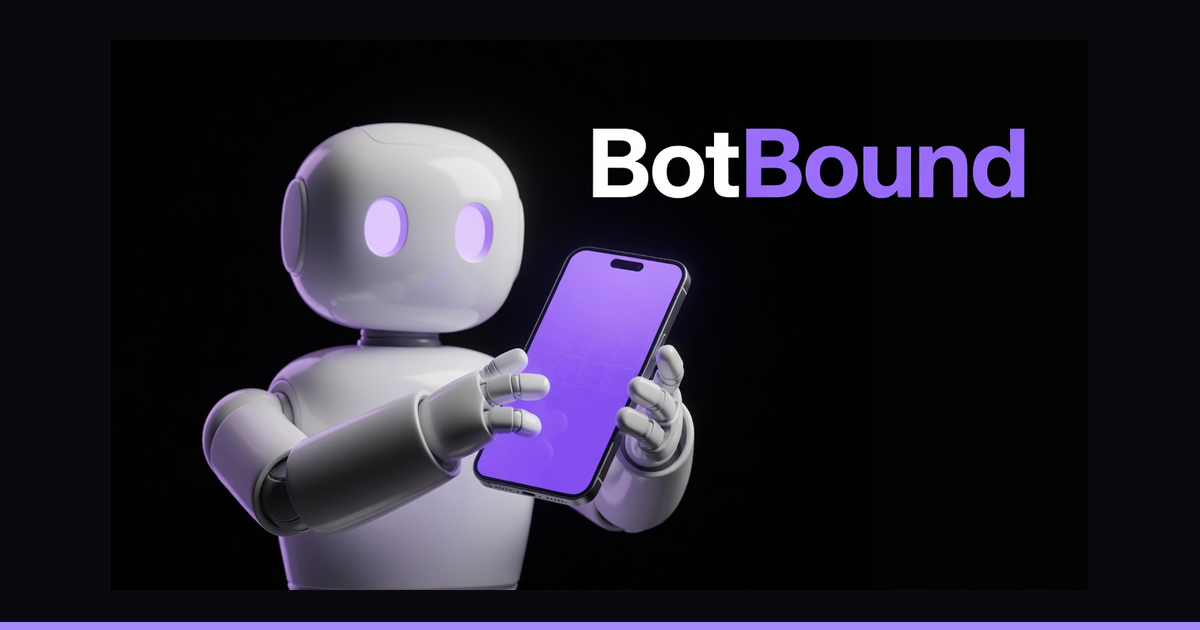
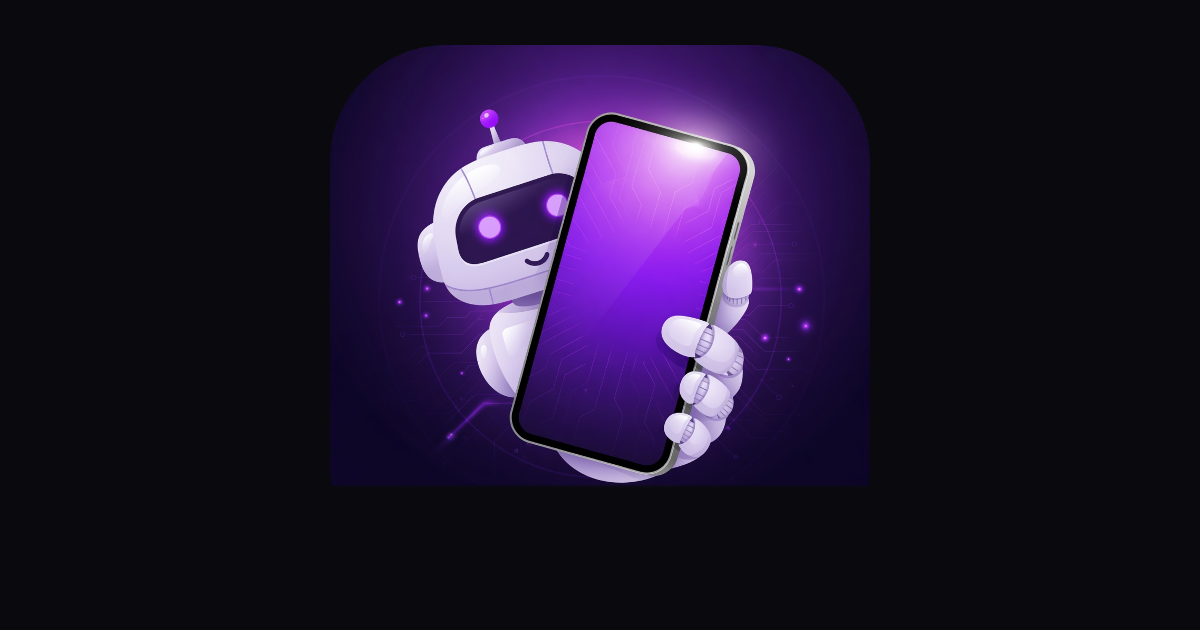
Point BotBoundMark at the robot-only Presenting character
Michael + CoS lock 2026-09-24: primary logo is robot-only app-icon with
no baked wordmark. Favicon, PWA, and Stripe tiny chrome stay the B
letterpress glyph. CSS BotBoundBrand wordmark is unchanged.

diff --git a/tests/atomic-design-system-contract.test.ts b/tests/atomic-design-system-contract.test.ts
@@ -64,26 +64,34 @@ describe("Atomic Design completion contract", () => {
     expect(code).not.toMatch(arbitraryWithSpace);
   });
 
-  it("ships the letterpress glyph for in-product chrome and Presenting for store tiles", () => {
+  it("ships the robot-only Presenting tile for BotBoundMark and the letterpress glyph for tiny chrome", () => {
     const mark = source("src/components/brand/BotBoundMark.tsx");
     const legacyMark = source("src/components/brand/WirelineMark.tsx");
     const renderer = source("scripts/render-image-assets.mjs");
+    const brand = source("src/components/brand/BotBoundBrand.tsx");
 
-    expect(mark).toContain('src="/brand/botbound-mark.png"');
-    expect(mark).toContain('data-botbound-mark="letterpress"');
+    expect(mark).toContain('src="/brand/botbound-app-icon.png"');
+    expect(mark).toContain('data-botbound-mark="character"');
     expect(mark).not.toContain("<svg");
+    expect(mark).not.toContain("presenting-lockup");
+    expect(mark).not.toContain("botbound-mark.png");
+    expect(brand).toContain("BotBoundWordmark");
     expect(legacyMark).toContain('from "./BotBoundMark"');
     expect(renderer).toContain("public/brand/botbound-app-icon.png");
     expect(renderer).toContain("public/brand/botbound-mark.png");
     expect(renderer).not.toContain('out: "public/wireline-icon-512.png"');
 
-    for (const asset of ["public/favicon.svg", "public/botbound-icon.svg", "scripts/apple-touch-icon.svg"]) {
+    for (const asset of ["public/favicon.svg", "public/botbound-icon.svg"]) {
       const svg = source(asset);
       expect(svg, `${asset} must be the letterpress phone glyph`).toContain("#A78BFA");
       expect(svg).toContain("phone glyph");
       expect(svg).not.toContain("botbound-app-icon.png");
       expect(svg).not.toContain("folded violet and platinum W");
     }
+
+    const appleTouch = source("scripts/apple-touch-icon.svg");
+    expect(appleTouch).toContain("botbound-app-icon.png");
+    expect(appleTouch).not.toContain("folded violet and platinum W");
 
     const iosIcon = source("scripts/ios-app-icon.svg");
     expect(iosIcon).toContain("botbound-app-icon.png");

diff --git a/tests/brand-bot-identity-contract.test.ts b/tests/brand-bot-identity-contract.test.ts
@@ -5,16 +5,20 @@ import { describe, expect, it } from "vitest";
 const read = (path: string) => readFileSync(resolve(process.cwd(), path), "utf8");
 
 describe("BotBound brand migration", () => {
-  it("uses the approved letterpress phone glyph as the canonical visual identity", () => {
+  it("uses the Presenting robot character as the canonical visual identity", () => {
     const component = read("src/components/brand/BotBoundMark.tsx");
     const icon = read("public/botbound-icon.svg");
     const favicon = read("public/favicon.svg");
-    expect(component).toContain('data-botbound-mark="letterpress"');
-    expect(component).toContain('src="/brand/botbound-mark.png"');
-    expect(component).toContain("letterpress violet phone glyph");
+    expect(component).toContain('data-botbound-mark="character"');
+    expect(component).toContain('src="/brand/botbound-app-icon.png"');
+    expect(component).toContain("Presenting robot character");
+    expect(component).toContain("No baked");
     expect(component).not.toContain("receiver");
     expect(component).not.toContain("phone-bot");
+    expect(component).not.toContain("landline");
     expect(component).not.toContain("<svg");
+    expect(component).not.toContain("presenting-lockup");
+    expect(component).not.toContain("botbound-mark.png");
     for (const source of [icon, favicon]) {
       expect(source).toContain("BotBound");
       expect(source).toMatch(/phone|Phone/);

diff --git a/src/components/brand/BotBoundMark.tsx b/src/components/brand/BotBoundMark.tsx
@@ -6,22 +6,23 @@ type BotBoundMarkProps = {
 };
 
 /**
- * Canonical BotBound mark: the letterpress violet phone glyph.
+ * Canonical BotBound mark: the Presenting robot character only.
  *
- * Studio chrome, favicon, PWA, and Stripe use this flat B glyph. Presenting
- * photoreal artwork stays on marketing tiles, OG, and store icons.
+ * No baked "BotBound" wordmark. Product name is the typographic CSS wordmark
+ * in BotBoundBrand. Favicon, PWA, and Stripe tiny chrome use the letterpress
+ * phone glyph separately because the robot does not read at 16px.
  */
 export default function BotBoundMark({ className = "", label, signal = true }: BotBoundMarkProps) {
   return (
     <img
-      src="/brand/botbound-mark.png"
+      src="/brand/botbound-app-icon.png"
       alt={label ?? ""}
       role={label ? "img" : undefined}
       aria-hidden={label ? undefined : true}
       draggable={false}
       className={`bb-mark-image inline-block shrink-0 ${className}`}
       data-signal={signal ? "true" : "false"}
-      data-botbound-mark="letterpress"
+      data-botbound-mark="character"
     />
   );
 }

diff --git a/tests/static-metadata-contract.test.ts b/tests/static-metadata-contract.test.ts
@@ -73,7 +73,7 @@ describe("BotBound static marketing metadata", () => {
     expect(pageMeta).not.toContain('DEFAULT_TITLE = "WIRELINE');
   });
 
-  it("keeps the OG image aligned with the locked Presenting marketing lockup", () => {
+  it("keeps the OG image aligned with the robot-only Presenting character", () => {
     const ogImage = read("public/og-image.svg");
 
     expect(ogImage).toContain("BotBound");
@@ -81,7 +81,7 @@ describe("BotBound static marketing metadata", () => {
     expect(ogImage).toContain("Outbound sales. Inbound calls.");
     expect(ogImage).toContain("/brand/og-image.png");
     expect(ogImage).toContain("#0A0A0E");
-    expect(ogImage).toMatch(/phone|Phone/);
+    expect(ogImage).toContain("No baked wordmark");
     expect(ogImage).not.toContain("ONE BOT");
     expect(ogImage).not.toContain("PUT YOUR BOT ON THE LINE");
     expect(ogImage).not.toContain("folded violet and platinum W");

diff --git a/tests/marketing-centering-contract.test.ts b/tests/marketing-centering-contract.test.ts
@@ -77,13 +77,13 @@ describe("marketing centering contract", () => {
     expect(hero).toContain("w-full min-w-0 max-w-[70rem]");
   });
 
-  it("keeps the canonical letterpress mark and legacy import alias aligned", () => {
+  it("keeps the canonical robot-character mark and legacy import alias aligned", () => {
     const mark = read("src/components/brand/BotBoundMark.tsx");
     const legacyMark = read("src/components/brand/WirelineMark.tsx");
 
     expect(mark).toContain("<img");
-    expect(mark).toContain('src="/brand/botbound-mark.png"');
-    expect(mark).toContain('data-botbound-mark="letterpress"');
+    expect(mark).toContain('src="/brand/botbound-app-icon.png"');
+    expect(mark).toContain('data-botbound-mark="character"');
     expect(mark).not.toContain("<svg");
     expect(mark).not.toContain("viewBox=");
     expect(legacyMark).toContain('export { default } from "./BotBoundMark"');

diff --git a/src/styles/brand-identity.css b/src/styles/brand-identity.css
@@ -1,9 +1,11 @@
 /* BotBound identity layer.
  *
- * Customer-visible identity is BotBound. The in-product mark is the letterpress
- * violet phone glyph. The CSS wordmark keeps both B letters intact: platinum Bot
- * on dark, Aurora Bound. Stable technical `wireline` identifiers can stay below
- * the presentation layer without leaking into the product brand.
+ * Customer-visible identity is BotBound. The in-product mark is the Presenting
+ * robot character with no baked wordmark. The CSS wordmark keeps both B letters
+ * intact: platinum Bot on dark, Aurora Bound. Favicon, PWA, and Stripe tiny
+ * chrome use the letterpress phone glyph. Stable technical `wireline`
+ * identifiers can stay below the presentation layer without leaking into the
+ * product brand.
  */
 :root {
   --wireline-brand-violet: var(--wireline-color-action-primary-default);

diff --git a/src/components/brand/BotBoundBrand.tsx b/src/components/brand/BotBoundBrand.tsx
@@ -43,7 +43,7 @@ type BotBoundLockupProps = {
   signal?: boolean;
 };
 
-/** Canonical letterpress phone glyph + BotBound wordmark lockup. */
+/** Canonical robot-character mark plus typographic BotBound wordmark. */
 export function BotBoundLockup({
   size = "standard",
   surface = "bare",

diff --git a/brand-work/BOTBOUND-BRAND-GUIDE.md b/brand-work/BOTBOUND-BRAND-GUIDE.md
@@ -1,10 +1,10 @@
 # BotBound Brand System
 
-Production identity locked 2026-09-23 as a hybrid. Do not publish this pack until CoS unlocks it and deploy is healthy.
+Production identity locked 2026-09-24 as a hybrid (Michael + CoS). Do not publish this pack until CoS unlocks it and deploy is healthy.
 
 ## The Idea
 
-BotBound gives businesses Bots for calls, texts, and email while their people stay with the work. Marketing uses **A Presenting** (character + cell phone). In-product chrome, favicon, PWA, and Stripe use **B letterpress**, a flat violet phone glyph that still reads at 16×16.
+BotBound gives businesses Bots for calls, texts, and email while their people stay with the work. The **primary logo** (`BotBoundMark`, marketing tile, store icons) is the **Presenting robot character only** — no baked "BotBound" text. In-product name is the typographic CSS wordmark. **Favicon, PWA, and Stripe tiny chrome** use **B letterpress**, a flat violet phone glyph that still reads at 16×16.
 
 The brand line is:
 
@@ -19,8 +19,10 @@ The general product category is **Inbound & Outbound Bots**. The current refresh
 ## Primary Identity
 
 - Product name is `BotBound` only. Never use Wireline in filenames, art, or alt text.
-- **A Presenting** is the marketing lockup, app tile, and OG image. Cell phone only. No landline, handset, or coiled cord.
-- **B letterpress** is the in-product mark (`BotBoundMark`), favicon, PWA icons, Apple touch, Stripe icon/logo, and Studio chrome.
+- **Primary logo** is the robot-only Presenting tile (`botbound-app-icon.png`). Cell phone only. No landline. No baked wordmark.
+- **Product name in UI** is the CSS wordmark in `BotBoundBrand`. Never bake "BotBound" into the mark, favicon, or OG-as-logo.
+- **Presenting lockups** (`presenting-lockup-*`) with a baked wordmark are optional marketing only. They are not the logo.
+- **B letterpress** is favicon, PWA icons, Stripe tiny chrome, and the extension toolbar. The robot fails at 16px.
 - Keep both B letters in `BotBound` complete. Never notch, stencil, split, crop, or replace either B with a robot head.
 - Use title case `BotBound` in product and brand lockups. `BOTBOUND` is reserved for short campaign labels, URLs, and small mono utility copy.
 - Set the wordmark in Inter Tight ExtraBold, weight 800, with optical tracking near `-0.047em`. Product UI uses the CSS wordmark in `BotBoundBrand`, not a raster that swaps letters for a pictogram.
@@ -28,14 +30,12 @@ The general product category is **Inbound & Outbound Bots**. The current refresh
 
 ### Master Files
 
-- `../public/brand/botbound-mark.png` / `.svg`: B letterpress violet phone glyph. Canonical `BotBoundMark` source.
-- `../public/brand/botbound-operator-primary.png`: same B glyph; campaign scripts that still say "operator" consume this file.
-- `../public/brand/botbound-operator-polished.png`: alias of the B glyph so older launch renderers do not 404. Do not treat it as photoreal receiver art.
-- `../public/brand/botbound-app-icon.png` / `botbound-app-icon-1024.png`: A Presenting marketing tile, no wordmark.
-- `../public/brand/presenting-lockup-dark.png`, `presenting-lockup-light.png`, `presenting-transparent.png`: A Presenting lockups.
-- `../public/brand/og-image.png`: 1200×630 Presenting OG master. `npm run assets` copies it to the gitignored `/og-image.png`.
-- `../public/brand/botbound-wordmark-dark.svg` / `botbound-wordmark-light.svg`: typographic wordmark with both B letters intact.
-- `selected/botbound-operator-primary.png`: B glyph copy for campaign selected/.
+- `../public/brand/botbound-app-icon.png` / `botbound-app-icon-1024.png`: robot-only Presenting tile. Canonical `BotBoundMark` source. No wordmark.
+- `../public/brand/botbound-mark.png` / `.svg`: B letterpress violet phone glyph for favicon, PWA, and Stripe tiny chrome.
+- `../public/brand/botbound-operator-primary.png` / `botbound-operator-polished.png`: aliases of the robot-only tile for older campaign renderers.
+- `../public/brand/presenting-lockup-dark.png`, `presenting-lockup-light.png`, `presenting-transparent.png`: optional marketing lockups with baked wordmark. Not the logo.
+- `../public/brand/og-image.png`: 1200×630 robot-only OG. `npm run assets` copies it to the gitignored `/og-image.png`.
+- `../public/brand/botbound-wordmark-dark.svg` / `botbound-wordmark-light.svg`: typographic wordmark with both B letters intact. Product UI uses CSS, not these rasters, for the name.
 - `exports/identity/botbound-lockup-obsidian-1600x480.png`: historical campaign lockup; regenerate from current masters before reuse.
 - `exports/identity/botbound-lockup-platinum-1600x480.png`: historical campaign lockup; regenerate from current masters before reuse.
 - `exports/identity/botbound-lockup-transparent-1600x480.png`: historical campaign lockup; regenerate from current masters before reuse.
@@ -45,7 +45,7 @@ The general product category is **Inbound & Outbound Bots**. The current refresh
 - Clear space around the Presenting app tile: keep the character inside the maskable safe zone (~80% center) for PWA.
 - Clear space around the letterpress glyph: do not crop the phone body or earpiece bar.
 - Clear space around the horizontal lockup: at least the height of the lowercase `o` on every side.
-- Minimum in-product mark: 16 px (favicon), 24 px in UI, 32 px preferred.
+- Minimum in-product mark: 24 px in UI, 32 px preferred. Favicon stays the 16 px letterpress glyph.
 - Minimum horizontal lockup: 144 px wide on screen.
 - At tiny sizes, use the B letterpress glyph, not Presenting photoreal art.
 - Do not place Presenting photography on an uncontrolled light field without an obsidian tile.
@@ -79,12 +79,12 @@ Show competent people in the middle of real work: hands occupied, attention comm
 
 - Use deep practical shadows, warm work light, and restrained violet signal light.
 - Preserve intentional negative space for campaign copy.
-- The robot may enter the world as a believable premium character, but must retain the approved white/platinum shell, black visor, friendly violet eyes, antenna, visible gripping hand, and classic violet receiver. Use the dimensional polished operator for hero placements and the flat operator only when the layout needs graphic simplicity.
+- The robot may enter the world as a believable premium character, but must retain the approved white/platinum shell, black visor, friendly violet eyes, antenna, visible gripping hand, and classic violet cell phone. Use the dimensional Presenting character for hero placements and the letterpress glyph only at tiny chrome sizes.
 - Avoid humanoid faces, metallic menace, headset silhouettes, floating chat bubbles, neon overload, fake interface screens, and text generated inside source photography.
 
 ## Motion and Sound
 
-The signature motion is the second ring: the first ring belongs to the missed call, and the second ring becomes the violet BotBound signal. Signal rings should expand from the receiver with soft decay, never pulse continuously like an alarm.
+The signature motion is the second ring: the first ring belongs to the missed call, and the second ring becomes the violet BotBound signal. Signal rings should expand from the phone with soft decay, never pulse continuously like an alarm.
 
 - Use confident 10 to 18 frame eases and restrained spring response.
 - Let practical sound lead before music.
@@ -95,19 +95,21 @@ The signature motion is the second ring: the first ring belongs to the missed ca
 
 - Public navigation uses the standard lockup with a 42 px mark and 18.9 px wordmark.
 - Hero lockups use the display size with an 84 px mark and 38.7 px wordmark.
-- Compact product chrome uses a 32 px app icon and a complete 800-weight wordmark.
-- All web, Stripe, browser extension, iOS, and Android outputs derive from the one app-icon master.
+- Compact product chrome uses a 32 px robot mark and a complete 800-weight CSS wordmark.
+- Favicon, PWA, Stripe tiny chrome, and the extension toolbar derive from the letterpress glyph. BotBoundMark, store tiles, and Apple touch derive from the robot-only app-icon.
 - Use raster masters in production. SVG files in legacy paths are compatibility wrappers only, not alternate drawings.
 
 ## Do Not
 
-- Do not break either B, and do not replace a B with a robot head.
-- Do not put photoreal Presenting art in `BotBoundMark`, favicon, PWA, or Stripe icon slots.
-- Do not put the letterpress glyph on marketing OG or the store app tile.
-- Do not revive landline, handset, or coiled-cord art in FINAL surfaces.
+- Do not bake "BotBound" into `BotBoundMark`, favicon, or OG-as-logo.
+- Do not ship `presenting-lockup-*` as the product logo.
+- Do not put the letterpress glyph in `BotBoundMark` or store-tile slots.
+- Do not put the robot character in favicon / 16px chrome.
+- Do not revive landline art in FINAL surfaces.
 - Do not gradient-fill `BotBound`.
 - Do not emit `wireline-*` brand twins under `public/`.
 - Do not pair the mark with the retired Wireline W.
+- Do not break either B, and do not replace a B with a robot head.
 
 ## Governance
 

diff --git a/apps/botbound-film/ASSET_MANIFEST.md b/apps/botbound-film/ASSET_MANIFEST.md
@@ -4,7 +4,7 @@ SHA-256 values below identify the exact local inputs used by every composition.
 
 | File | SHA-256 |
 | --- | --- |
[5 lines of base64/hex data omitted]
@@ -33,6 +33,6 @@ The 30-second sidecars below match the September 20, 2026 source revision: **You
[2 lines of base64/hex data omitted]
 
-The robot glyph and Presenting app tile are the locked BotBound FINAL identity masters. The opening image is original OpenAI-generated campaign illustration and remains subject to the generated-art, likeness, and commercial-use gate before paid distribution. The transfer chime is copied unchanged from the approved product sound. The score and ring are original deterministic outputs of `scripts/generate-audio.mjs`; the composition uses the repository-safe MP3 derivative of the PCM score.
+The robot-only Presenting character (`botbound-app-icon.png` / `botbound-operator-primary.png`) is the locked BotBound FINAL logo. The B letterpress glyph stays favicon / PWA / Stripe tiny chrome and is not this film mark. The opening image is original OpenAI-generated campaign illustration and remains subject to the generated-art, likeness, and commercial-use gate before paid distribution. The transfer chime is copied unchanged from the approved product sound. The score and ring are original deterministic outputs of `scripts/generate-audio.mjs`; the composition uses the repository-safe MP3 derivative of the PCM score.
 
 Before paid broadcast delivery, confirm the final media-rights record for the approved image-generation sources and attach the delivery-render SHA-256 values to this manifest.

diff --git a/brand-work/CURRENT-ASSET-INDEX.md b/brand-work/CURRENT-ASSET-INDEX.md
@@ -19,7 +19,7 @@ The website explains inbound and outbound together. The First Move does not repl
 
 The promotional inventory classifies local file roles and review candidates using paths and supported format signatures. It does not verify publication approval, source/render parity, vendor readiness, or remote delivery. Its JSON and CSV explicitly mark release approval as unassessed. `ASSET-AUDIT-2026-09-01.md` preserves a historical audit, including its former directory-based release labels.
 
-The production identity is hybrid: **A Presenting** for marketing/app tile/OG, **B letterpress** violet phone glyph for in-product mark/favicon/PWA/Stripe/Studio, paired with a complete Inter Tight ExtraBold `BotBound` wordmark. Both B letters are complete and unbroken.
+The production identity is hybrid: **robot-only Presenting tile** for `BotBoundMark` / marketing / store icons, **B letterpress** violet phone glyph for favicon / PWA / Stripe tiny chrome, and a complete Inter Tight ExtraBold CSS `BotBound` wordmark. Both B letters are complete and unbroken. Lockups with baked wordmark are optional marketing, not the logo.
 
 ## Source of Truth
 
@@ -35,9 +35,9 @@ The production identity is hybrid: **A Presenting** for marketing/app tile/OG, *
 
 ## Identity
 
-- `../public/brand/botbound-mark.png` — B letterpress glyph for `BotBoundMark`, favicon, PWA, Stripe, Studio
-- `../public/brand/botbound-app-icon.png` — A Presenting marketing tile (no wordmark)
-- `../public/brand/botbound-operator-primary.png` — B glyph; `botbound-operator-polished.png` is the same file for older renderers
+- `../public/brand/botbound-app-icon.png` — robot-only Presenting tile for `BotBoundMark` (no wordmark)
+- `../public/brand/botbound-mark.png` — B letterpress glyph for favicon, PWA, Stripe tiny chrome
+- `../public/brand/botbound-operator-primary.png` — robot-only alias; `botbound-operator-polished.png` matches
 - `selected/botbound-operator-primary.png`
 - `exports/identity/botbound-lockup-obsidian-1600x480.png`
 - `exports/identity/botbound-lockup-platinum-1600x480.png`

diff --git a/brand-work/README.md b/brand-work/README.md
@@ -1,6 +1,6 @@
 # BotBound Brand and Launch Assets
 
-Start with [CURRENT-ASSET-INDEX.md](CURRENT-ASSET-INDEX.md) for campaign sources, recorded Drive deliveries, and evidence boundaries. The product identity is the white/platinum operator holding a violet receiver, with the complete `BotBound` wordmark.
+Start with [CURRENT-ASSET-INDEX.md](CURRENT-ASSET-INDEX.md) for campaign sources, recorded Drive deliveries, and evidence boundaries. The product logo is the robot-only Presenting character (`botbound-app-icon.png`) with no baked wordmark. In-product name is the complete CSS `BotBound` wordmark. Tiny chrome uses the B letterpress glyph.
 
 ## First customer kit
 
@@ -13,7 +13,7 @@ Use [the launch copy kit](gtm/BOTBOUND-LAUNCH-COPY-KIT.md#first-design-partner-k
 
 ## Source and delivery
 
-Identity sources are in `selected/`, `public/brand/` at the repository root, and the release's `exports/brand/`. Use the dimensional operator for hero art; keep both B glyphs complete. Brand rules: [BOTBOUND-BRAND-GUIDE.md](BOTBOUND-BRAND-GUIDE.md).
+Identity sources are in `selected/`, `public/brand/` at the repository root, and the release's `exports/brand/`. Use the robot-only Presenting character for the logo and hero tile; keep both B letters in the CSS wordmark complete. Brand rules: [BOTBOUND-BRAND-GUIDE.md](BOTBOUND-BRAND-GUIDE.md).
 
 `commercial/`, `launch-stills/`, and `exports/` preserve earlier campaign sources and revision 3 placements. The August 20 captures in `exports/product-proof/` and [design-qa.md](../design-qa.md) are historical; do not cite them as current product proof.
 

diff --git a/apps/browser-extension/README.md b/apps/browser-extension/README.md
@@ -59,7 +59,7 @@ apps/browser-extension/dist/chromium/
 apps/browser-extension/dist/firefox/
 ```
 
-The build generates every browser-required PNG size from the canonical production artwork at `public/brand/botbound-app-icon.png` and merges the shared manifest with the target overlay. `assets/icon.svg` remains a browser-readable compatibility wrapper, not a second drawing of the mark.
+The build generates every browser-required PNG size from the letterpress phone glyph at `public/brand/botbound-mark.png` (toolbar chrome; the robot does not read at 16px) and merges the shared manifest with the target overlay. `assets/icon.svg` remains a browser-readable compatibility wrapper, not a second drawing of the glyph.
 
 ## In-product install (preferred)
 
